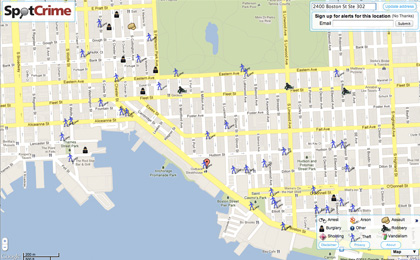
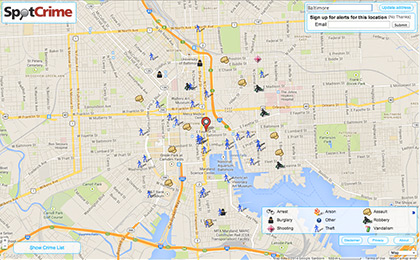
Added SpotCrime case study
Created spotcrime.html.
Added new SpotCrime images.
Removed old SpotCrime images.
Updated portfolio.html to link to SpotCrime case study instead of lightbox.

diff --git a/spotcrime.html b/spotcrime.html
@@ -1,0 +1,46 @@
+---
+layout: default
+title: Spotcrime Case Study | SmartLogic
+metadescription: Our agile software development process involves the client from initial scoping meetings to project completion. 
+---
+<article class="case-study spotcrime-case-study">
+  <h2>Speed and Expertise Key to SmartLogic’s Application Development for SpotCrime</h2>
+  <section>
+    <h3>The Problem</h3>
+    <figure class="right">
+      <img src="images/portfolio/spotcrime-2.jpg" alt="SpotCrime on and iPad">
+      <figcaption>SpotCrime is the most comprehensive online source of crime information and provides crime maps and crime alert emails.</figcaption>
+    </figure>
+    <p><a href="http://spotcrime.com">SpotCrime</a> aggregates crime data from police departments all over the United States, maps the data, and provides email crime alerts. SpotCrime’s data tracking helps both police departments and citizens build safer communities.</p>
+    <p>SpotCrime began growing quickly in 2007, and founder Colin Drane did not have a technical background. At the time, "the whole idea of startups and web 2.0 was nascent," Drane said. For context, the first iPhone was released on June 29th, 2007. Drane realized that "the company was growing so fast that I needed some additional folks who understood databases and technology."</p>
+    <div class="clear"></div>
+  </section>
+  <section>
+    <h3>Why SmartLogic</h3>
+    <p>Drane read about <a href="http://smartlogic.io">SmartLogic</a> in the <a href="http://www.bizjournals.com/search?q=%22SmartLogic%22&gosearch=&db=&de=&s=3&pl=1">Baltimore Business Journal</a>, met with the team, and hired SmartLogic quickly. Drane found the team "smart and knowledgeable," and liked how SmartLogic was a similar size to SpotCrime’s lean team.</p>
+  </section>
+  <section>
+    <h3>The Solution</h3>
+    <figure class="left">
+      <img src="images/portfolio/spotcrime-1.jpg" alt="The SpotCrime iOS app">
+      <figcaption>The SpotCrime iOS app displays a list of crimes and a crime map for the user's current location.</figcaption>
+    </figure>
+    <p>SpotCrime has worked with SmartLogic since 2008. "In terms of my perspective, it’s been an amazing success," said Drane. SmartLogic and SpotCrime have both grown since the beginning of their relationship, and "there’s been a ton of interaction."</p>
+    <p>Every time SpotCrime grows and needs help from SmartLogic, they’ll have a meeting, and generally, "within two months after that meeting, we have a product we’re pushing out," said Drane. Not only does SmartLogic "work very fast," they also "ask really good questions."</p>
+    <p>Drane, who focuses on marketing and product management, values SmartLogic’s technical expertise. "SmartLogic has such a wealth of knowledge. Sometimes what seems obvious and trivial to them would be amazing in the marketing world," said Drane.</p>
+    <p>For example, during one of SpotCrime’s annual meetings with media partners, one publisher suggested that SpotCrime provide an easy way to create a map for a news story. The SmartLogic developer at the meeting said "I can get that done in a half an hour," and was almost finished building the feature by the end of the meeting. Now, many of SpotCrime’s media partners use the feature frequently.</p>
+    <div class="clear"></div>
+  </section>
+  <section>
+    <h3>The Results</h3>
+    <p>SpotCrime has come along way since their first iPhone app. As of May 2013, SpotCrime <a href="http://technical.ly/baltimore/2013/05/22/spotcrime-colin-drane/">surpassed 1 million monthly unique visitors</a> from around the country, and SpotCrime consistently sends over 5 million email alerts per month.</p>
+    <p>While it’s hard to encapsulate the results of SpotCrime and SmartLogic’s long relationship, here are a few highlights of how we’ve helped SpotCrime grow.</p>
+    <ul>
+      <li>SmartLogic helped build an infrastructure that allows SpotCrime to handle a large volume of data at "an incredibly low cost."</li>
+      <li>When SpotCrime first reached out to SmartLogic, Apple hadn’t even created the App Store. Yet within a month, SmartLogic had created an iPhone app for SpotCrime. "It was basically a web application because the App Store didn’t even exist," said Drane. "We were <a href="http://techcrunch.com/2008/05/21/spotcrime-keeps-you-on-the-right-side-of-the-tracks/">covered on TechCrunch</a>, partly because of the app, so we got a massive traffic spike as a result of that."</li>
+      <li>More recently, <a href="http://blog.spotcrime.com/2014/01/new-spotcrime-iphone-app-available.html">SpotCrime’s iPhone app</a> needed updates to keep pace with the device’s changing size and iOS. "I reached out to SmartLogic, and in a month’s time, we had a new functional app," said Drane. "That’s a classic interaction with SmartLogic."</li>
+      <li>SpotCrime’s traffic recently rose by 20% because of a product SmartLogic was "integral in developing," said Drane.</li>
+    </ul>
+    <p>And, of course, the length of SmartLogic and SpotCrime’s partnership is a testament to its success. "I’ve been working with them since 2008. That’s a long time, particularly in the tech world," said Drane.</p>
+  </section>
+</article>

diff --git a/portfolio.html b/portfolio.html
@@ -66,29 +66,10 @@ metadescription: Look over our software development company portfolio for custom
     </section>
   </article>
   <article>
-    <a href="#portfolio/spotcrime/images"><img src="/images/portfolio/spotcrime.jpg" alt="SpotCrime Thumbnail" width="420" height="260"></a>
+    <a href="spotcrime"><img src="/images/portfolio/spotcrime.jpg" alt="SpotCrime Thumbnail" width="420" height="260"></a>
     <h2>SpotCrime</h2>
     <p><a href="http://spotcrime.com/">SpotCrime</a> is the most comprehensive online source of crime information.  SpotCrime has a database of over 15 million crimes and an email subscriber base of over 300,000 users.  We designed and built mechanisms to allow SpotCrime to withstand large influxes of users and have failover capabilities should a server go down.</p>
-    <aside><a href="#portfolio/spotcrime/images">View 4 screenshots</a> <a href="http://spotcrime.com/">Go to http://spotcrime.com</a></aside>
-    <section id="portfolio/spotcrime/images">
-      <figure>
-        <img src="/images/portfolio/spotcrime-1.jpg" alt="Spotcrime" title="Spotcrime" width="600" height="450">
-        <figcaption><strong>Image 1/4:</strong> Spotcrime's iPad application, providing location-specific current crime information.</figcaption>
-      </figure>
-      <figure>
-        <img src="/images/portfolio/spotcrime-2.jpg" alt="Spotcrime" title="Spotcrime" width="600" height="450">
-        <figcaption><strong>Image 2/4:</strong> Local crime alerts email sent by SpotCrime allows user to be notified of crimes in their area.</figcaption>
-      </figure>
-      <figure>
-        <!-- The two below are showing very similar visual info to the last two screen shots, I'd recommend removing them. -->
-        <img src="/images/portfolio/spotcrime-3.jpg" alt="Spotcrime" title="Spotcrime" width="600" height="450">
-        <figcaption><strong>Image 3/4:</strong> Spotcrime</figcaption>
-      </figure>
-      <figure>
-        <img src="/images/portfolio/spotcrime-4.jpg" alt="Spotcrime" title="Spotcrime" width="600" height="450">
-        <figcaption><strong>Image 4/4:</strong> Spotcrime</figcaption>
-      </figure>
-    </section>
+    <aside><a href="spotcrime" class="case-study">View Case Study</a> <a href="http://spotcrime.com/">Go to http://spotcrime.com</a></aside>
   </article>
   <article>
     <h2>Other Clients</h2>

diff --git a/css/style.css b/css/style.css
@@ -641,16 +641,19 @@ article nav a {		display: block; }
     clear: both;
   }
 
+  .spotcrime-case-study section figure.left,
   .dinnertime-case-study section figure.left {
     float: left;
     margin: 0 20px 0 0;
   }
 
+  .spotcrime-case-study section figure.right,
   .dinnertime-case-study section figure.right {
     float: right;
     margin: 0 0 0 20px;
   }
 
+  .spotcrime-case-study section figure,
   .dinnertime-case-study section figure {
     width: 600px;
   }
@@ -664,6 +667,15 @@ article nav a {		display: block; }
 
   .dinnertime-case-study section ul {
     padding-left: 20px;
+  }
+
+  .spotcrime-case-study section figure img {
+    border: none;
+  }
+
+  div.clear {
+    display: block;
+    clear: both;
   }
 
   @media screen and (max-width: 670px) {
